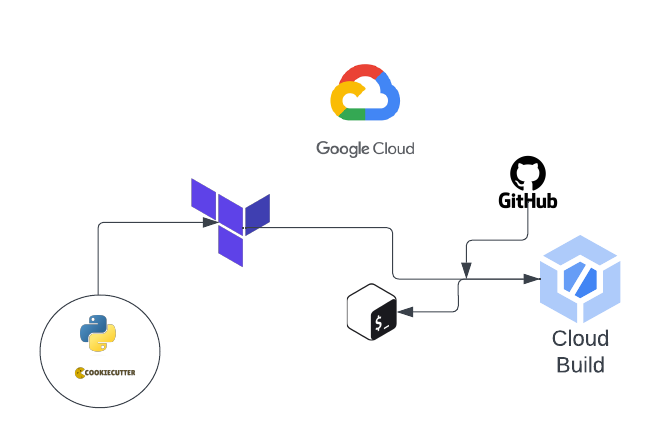
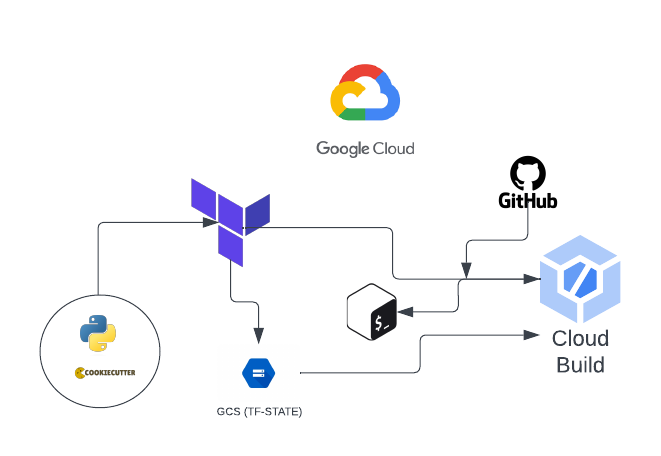
updated files

diff --git a/README.md b/README.md
@@ -1,13 +1,23 @@
 
+#### Cloud build automation
+
+## What does it do?
+
+Allows you to deploy a CI/CD with GCP using the native managed service cloudbuild
+with speed. Taking care of the extra steps of configuring terraform, state, cloudbuild steps
+and getting your repository connected to the pipline.
+
+## Features
+
+- Cookiecutter auto fill Terraform (python library)
+- Bash script to run Terraform and implement state into GCS
 
 
+## Steps
+
+- instaill the python library and run cookiecutter
+- You will then get a folder with your project
+- Change directory into the folder and run the bash.sh file
 
 
-
-
-
-
-
-
-
-(<design/Cloud_build_automation.png>)
+![Image Alt Text](/design/Cloud_build_automation.png)
